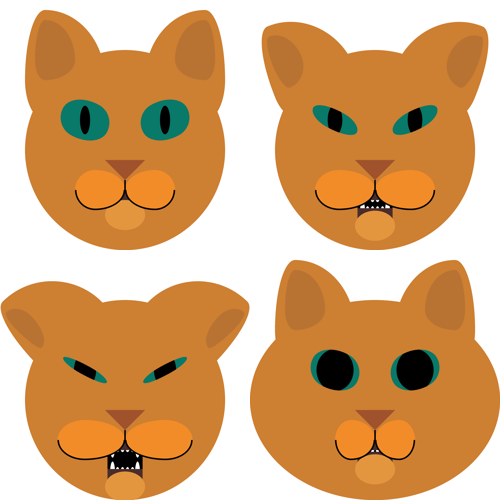
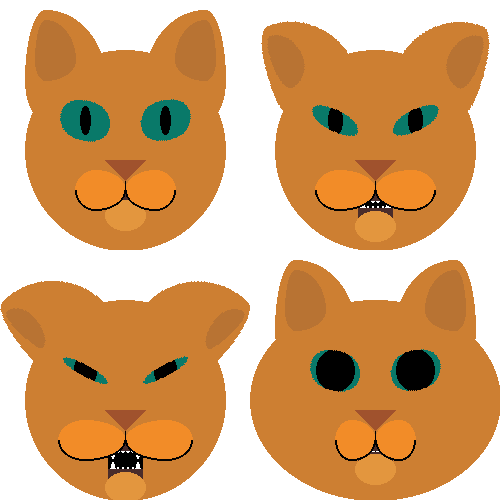
Rewrite all draw actions as methods that rescale all coordinates

diff --git a/catlib.py b/catlib.py
@@ -2,6 +2,11 @@ from PIL import Image, ImageDraw
 
 # Background
 class Head:
+    # The canvas size the layers were designed in.
+    # The actual output images are rescaled from this design size
+    # to the actual size of the image being drawn.
+    __ref_width = 2500.0
+    __ref_height = 2500.0
     def __init__(self, width=1, height=1, fill=(205, 127, 50)):
         self.w = width
         self.h = height
@@ -12,16 +17,40 @@ class Head:
         # keep a history of your modifications, for example for
         # an animation of a sequence of images.
         im = im.copy()
-        draw = ImageDraw.Draw(im)
         ox = 1250
         oy = 1500
-        draw.ellipse(xy=[(ox-self.w*1000, oy-self.h*1000),
+        self.draw_ellipse(im, xy=[(ox-self.w*1000, oy-self.h*1000),
                          (ox+self.w*1000, oy+self.h*1000)],
                      fill=self.f)
         return im
-    @staticmethod
+    def rescale_1d(self, a, im_size_tuple):
+        return round(a*(im_size_tuple[0]+im_size_tuple[1])/(self.__ref_width+self.__ref_height))
+    def rescale(self, x_y_tuple, im_size_tuple):
+        return round(x_y_tuple[0]*im_size_tuple[0]/self.__ref_width), round(x_y_tuple[1]*im_size_tuple[1]/self.__ref_height)
+    def draw_rectangle(self, im, xy, **kwargs):
+        xy = [self.rescale(ab, im.size) for ab in xy]
+        draw_obj = ImageDraw.Draw(im)
+        draw_obj.rectangle(xy, **kwargs)
+    def draw_ellipse(self, im, xy, **kwargs):
+        xy = [self.rescale(ab, im.size) for ab in xy]
+        draw_obj = ImageDraw.Draw(im)
+        draw_obj.ellipse(xy, **kwargs)
+    def draw_polygon(self, im, xy, **kwargs):
+        xy = [self.rescale(ab, im.size) for ab in xy]
+        draw_obj = ImageDraw.Draw(im)
+        draw_obj.polygon(xy, **kwargs)
+    def draw_line(self, im, xy, width, **kwargs):
+        xy = [self.rescale(ab, im.size) for ab in xy]
+        width = self.rescale_1d(width, im.size)
+        draw_obj = ImageDraw.Draw(im)
+        draw_obj.polygon(xy, **kwargs)
     # Define a disorted re-centered ellipse
-    def distorted_ellipse(draw_obj, topleft_xy, bottomright_xy, center_xy, fill_rgb, quadrants=(True, True, True, True), stroke_width=(0, 0, 0, 0)):
+    def distorted_ellipse(self, im, topleft_xy, bottomright_xy, center_xy, fill_rgb, quadrants=(True, True, True, True), stroke_width=(0, 0, 0, 0)):
+        topleft_xy = self.rescale(topleft_xy, im.size)
+        bottomright_xy = self.rescale(bottomright_xy, im.size)
+        center_xy = self.rescale(center_xy, im.size)
+        draw_obj = ImageDraw.Draw(im)
+        stroke_width = [self.rescale_1d(a, im.size) for a in stroke_width]
         # Given a corner and a center, determine the opposiste corner
         # If you draw this on paper, the other corner is on the opposite side of the center
         # that the original corner is
@@ -105,11 +134,10 @@ class Mouth(Head):
         self.f = fill
     def draw(self, im):
         im = im.copy()
-        draw = ImageDraw.Draw(im)
         # Each part of the mouth is overlaid on the previous
         # lip over teeth, teeth over mouth hole
         # open mouth, basically a hole
-        draw.rectangle(xy=[(self.uox-self.w*175, self.uoy-self.h*50),
+        self.draw_rectangle(im, xy=[(self.uox-self.w*175, self.uoy-self.h*50),
                          (self.cox+self.w*175, self.coy)],
                      fill=(0, 0, 0))
         # upper teef
@@ -122,7 +150,7 @@ class Mouth(Head):
             ( 100, 75,  150),
             ]
         for t in upper_teefs:
-            draw.ellipse(xy=[(self.uox+self.w*t[0], self.uoy-self.h*(50+t[1])),
+            self.draw_ellipse(im, xy=[(self.uox+self.w*t[0], self.uoy-self.h*(50+t[1])),
                                (self.uox+self.w*t[2], self.uoy+self.h*(50+t[1]))],
                         fill=(255, 255, 255))
         # lower teef
@@ -135,19 +163,19 @@ class Mouth(Head):
             ( 100, 75,  150),
             ]
         for t in lower_teefs:
-            draw.ellipse(xy=[(self.cox+self.w*t[0], self.coy-self.h*(175+t[1])),
+            self.draw_ellipse(im, xy=[(self.cox+self.w*t[0], self.coy-self.h*(175+t[1])),
                                (self.cox+self.w*t[2], self.coy)],
                         fill=(255, 255, 255))
         # upper lip
-        draw.rectangle(xy=[(self.uox-self.w*175, self.uoy-self.h*50),
+        self.draw_rectangle(im, xy=[(self.uox-self.w*175, self.uoy-self.h*50),
                          (self.uox+self.w*175, self.uoy+self.h*50)],
                      fill=(74, 44, 42))
         # lower lip
-        draw.rectangle(xy=[(self.cox-self.w*175, self.coy-self.h*175),
+        self.draw_rectangle(im, xy=[(self.cox-self.w*175, self.coy-self.h*175),
                          (self.cox+self.w*175, self.coy)],
                      fill=(74, 44, 42))
         # chin
-        draw.ellipse(xy=[(self.cox-self.w*200, self.coy-self.h*150),
+        self.draw_ellipse(im, xy=[(self.cox-self.w*200, self.coy-self.h*150),
                          (self.cox+self.w*200, self.coy+self.h*150)],
                      fill=self.f)
         return im
@@ -160,10 +188,9 @@ class LeftCheek(Head):
         self.f = fill
     def draw(self, im):
         im = im.copy()
-        draw = ImageDraw.Draw(im)
         ox = 1250
         oy = 1900
-        self.distorted_ellipse(draw,
+        self.distorted_ellipse(im,
                           (ox-self.w*500, oy-self.h*200),
                           (ox, oy+self.h*200),
                           (ox-self.w*300, oy),
@@ -179,10 +206,9 @@ class RightCheek(Head):
         self.f = fill
     def draw(self, im):
         im = im.copy()
-        draw = ImageDraw.Draw(im)
         ox = 1250
         oy = 1900
-        self.distorted_ellipse(draw,
+        self.distorted_ellipse(im,
                           (ox, oy-self.h*200),
                           (ox+self.w*500, oy+self.h*200),
                           (ox+self.w*300, oy),
@@ -203,26 +229,28 @@ class LeftEar(Head):
         self.o_f = outer_fill
     def draw(self, im):
         mask = Image.new("L", im.size, "white")
-        draw_mask = ImageDraw.Draw(mask)
         # Draw the outer ear first
         o_ox = 450
         o_oy = 800
-        self.distorted_ellipse(draw_mask,
+        self.distorted_ellipse(mask,
                           (o_ox-self.w*200-self.t*100, o_oy-self.h*700+self.t*200),
                           (o_ox+self.w*600, o_oy+self.h*400),
                           (o_ox-self.t*100, o_oy+self.t*200),
                           "black")
-        mask = mask.rotate(self.t*45, fillcolor="white", center=(o_ox, o_oy))
+        # Rescale rotation origin as well
+        mask = mask.rotate(self.t*45, fillcolor="white",
+                           center=self.rescale((o_ox, o_oy), mask.size))
         ear = Image.new("RGBA", im.size, self.o_f)
-        draw_ear = ImageDraw.Draw(ear)
         i_ox = 450
         i_oy = 600
-        self.distorted_ellipse(draw_ear,
+        self.distorted_ellipse(ear,
                           (i_ox-(self.t+self.w)*100, i_oy-self.h*400+self.t*200),
                           (i_ox+(1-self.t)*self.w*300, i_oy+self.h*200+self.t*100),
                           (i_ox-self.t*150, i_oy),
                           self.i_f)
-        ear = ear.rotate(self.t*45, fillcolor="white", center=(o_ox, o_oy))
+        # Rescale rotation origin as well
+        ear = ear.rotate(self.t*45, fillcolor="white",
+                         center=self.rescale((o_ox, o_oy), mask.size))
         # Perform the composite
         composite = Image.composite(im, ear, mask)
         return composite
@@ -239,28 +267,29 @@ class RightEar(Head):
         self.i_f = inner_fill
         self.o_f = outer_fill
     def draw(self, im):
-    
         mask = Image.new("L", im.size, "white")
-        draw_mask = ImageDraw.Draw(mask)
         # Draw the outer ear first
         o_ox = 2050
         o_oy = 800
-        self.distorted_ellipse(draw_mask,
+        self.distorted_ellipse(mask,
                           (o_ox-self.w*600, o_oy-self.h*700+self.t*200),
                           (o_ox+self.w*200+self.t*100, o_oy+self.h*400),
                           (o_ox+self.t*100, o_oy+self.t*200),
                           "black")
-        mask = mask.rotate(self.t*-45, fillcolor="white", center=(o_ox, o_oy))
+        # Rescale rotation origin as well
+        mask = mask.rotate(self.t*-45, fillcolor="white",
+                           center=self.rescale((o_ox, o_oy), mask.size))
         ear = Image.new("RGBA", im.size, self.o_f)
-        draw_ear = ImageDraw.Draw(ear)
         i_ox = 2050
         i_oy = 600
-        self.distorted_ellipse(draw_ear,
+        self.distorted_ellipse(ear,
                           (i_ox-(1-self.t)*self.w*300, i_oy-self.h*400+self.t*200),
                           (i_ox+(self.t+self.w)*100, i_oy+self.h*200+self.t*100),
                           (i_ox+self.t*150, i_oy),
                           self.i_f)
-        ear = ear.rotate(self.t*-45, fillcolor="white", center=(o_ox, o_oy))
+        # Rescale rotation origin as well
+        ear = ear.rotate(self.t*-45, fillcolor="white",
+                         center=self.rescale((o_ox, o_oy), mask.size))
         # Perform the composite
         composite = Image.composite(im, ear, mask)
         return composite
@@ -274,12 +303,11 @@ class Nose(Head):
         self.f = fill
     def draw(self, im):
         im = im.copy()
-        draw = ImageDraw.Draw(im)
         ox = 1250
         oy = 1700
         if self.upper_lip:
-            draw.line(xy=[(ox, oy+self.h*100), (ox, oy+self.h*200)], fill=(0, 0, 0), width=15)
-        draw.polygon(xy=[(ox-self.w*200, oy-self.h*100),
+            self.draw_line(im, xy=[(ox, oy+self.h*100), (ox, oy+self.h*200)], fill=(0, 0, 0), width=15)
+        self.draw_polygon(im, xy=[(ox-self.w*200, oy-self.h*100),
                                   (ox, oy+self.h*100),
                                   (ox+self.w*200, oy-self.h*100)],
                                   fill=self.f)
@@ -308,25 +336,25 @@ class LeftEye(Head):
         # With a mask, the pupil can get really big without escaping the eyes
         # The cat can also squint if it wants to
         mask = Image.new("L", im.size, "white")
-        draw_mask = ImageDraw.Draw(mask)
         # Left eye mask
-        self.distorted_ellipse(draw_mask,
+        self.distorted_ellipse(mask,
                           (eox-self.ew*250, eoy-self.eh*200),
                           (eox+self.ew*250, eoy+self.eh*200),
                           (eox+50, eoy),
                           "black",
                           quadrants=(True, True, False, False))
-        self.distorted_ellipse(draw_mask,
+        self.distorted_ellipse(mask,
                           (eox-self.ew*250, eoy-self.eh*200),
                           (eox+self.ew*250, eoy+self.eh*200),
                           (eox-50, eoy),
                           "black",
                           quadrants=(False, False, True, True))
-        mask = mask.rotate(-30, fillcolor="white", center=(eox, eoy))
         eye = Image.new("RGBA", im.size, self.ef)
-        draw_eye = ImageDraw.Draw(eye)
+        # Rescale rotation origin as well
+        mask = mask.rotate(-30, fillcolor="white",
+                         center=self.rescale((eox, eoy), mask.size))
         # Pupil
-        draw_eye.ellipse(xy=[(pox-self.pw*50, poy-self.ph*150),
+        self.draw_ellipse(eye, xy=[(pox-self.pw*50, poy-self.ph*150),
                              (pox+self.pw*50, poy+self.ph*150)],
                              fill=(0, 0, 0))
         # Perform the composite
@@ -356,25 +384,25 @@ class RightEye(Head):
         # With a mask, the pupil can get really big without escaping the eyes
         # The cat can also squint if it wants to
         mask = Image.new("L", im.size, "white")
-        draw_mask = ImageDraw.Draw(mask)
         # Left eye mask
-        self.distorted_ellipse(draw_mask,
+        self.distorted_ellipse(mask,
                           (eox-self.ew*250, eoy-self.eh*200),
                           (eox+self.ew*250, eoy+self.eh*200),
                           (eox-50, eoy),
                           "black",
                           quadrants=(True, True, False, False))
-        self.distorted_ellipse(draw_mask,
+        self.distorted_ellipse(mask,
                           (eox-self.ew*250, eoy-self.eh*200),
                           (eox+self.ew*250, eoy+self.eh*200),
                           (eox+50, eoy),
                           "black",
                           quadrants=(False, False, True, True))
-        mask = mask.rotate(30, fillcolor="white", center=(eox, eoy))
         eye = Image.new("RGBA", im.size, self.ef)
-        draw_eye = ImageDraw.Draw(eye)
+        # Rescale rotation origin as well
+        mask = mask.rotate(30, fillcolor="white",
+                         center=self.rescale((eox, eoy), mask.size))
         # Pupil
-        draw_eye.ellipse(xy=[(pox-self.pw*50, poy-self.ph*150),
+        self.draw_ellipse(eye, xy=[(pox-self.pw*50, poy-self.ph*150),
                              (pox+self.pw*50, poy+self.ph*150)],
                              fill=(0, 0, 0))
         # Perform the composite
